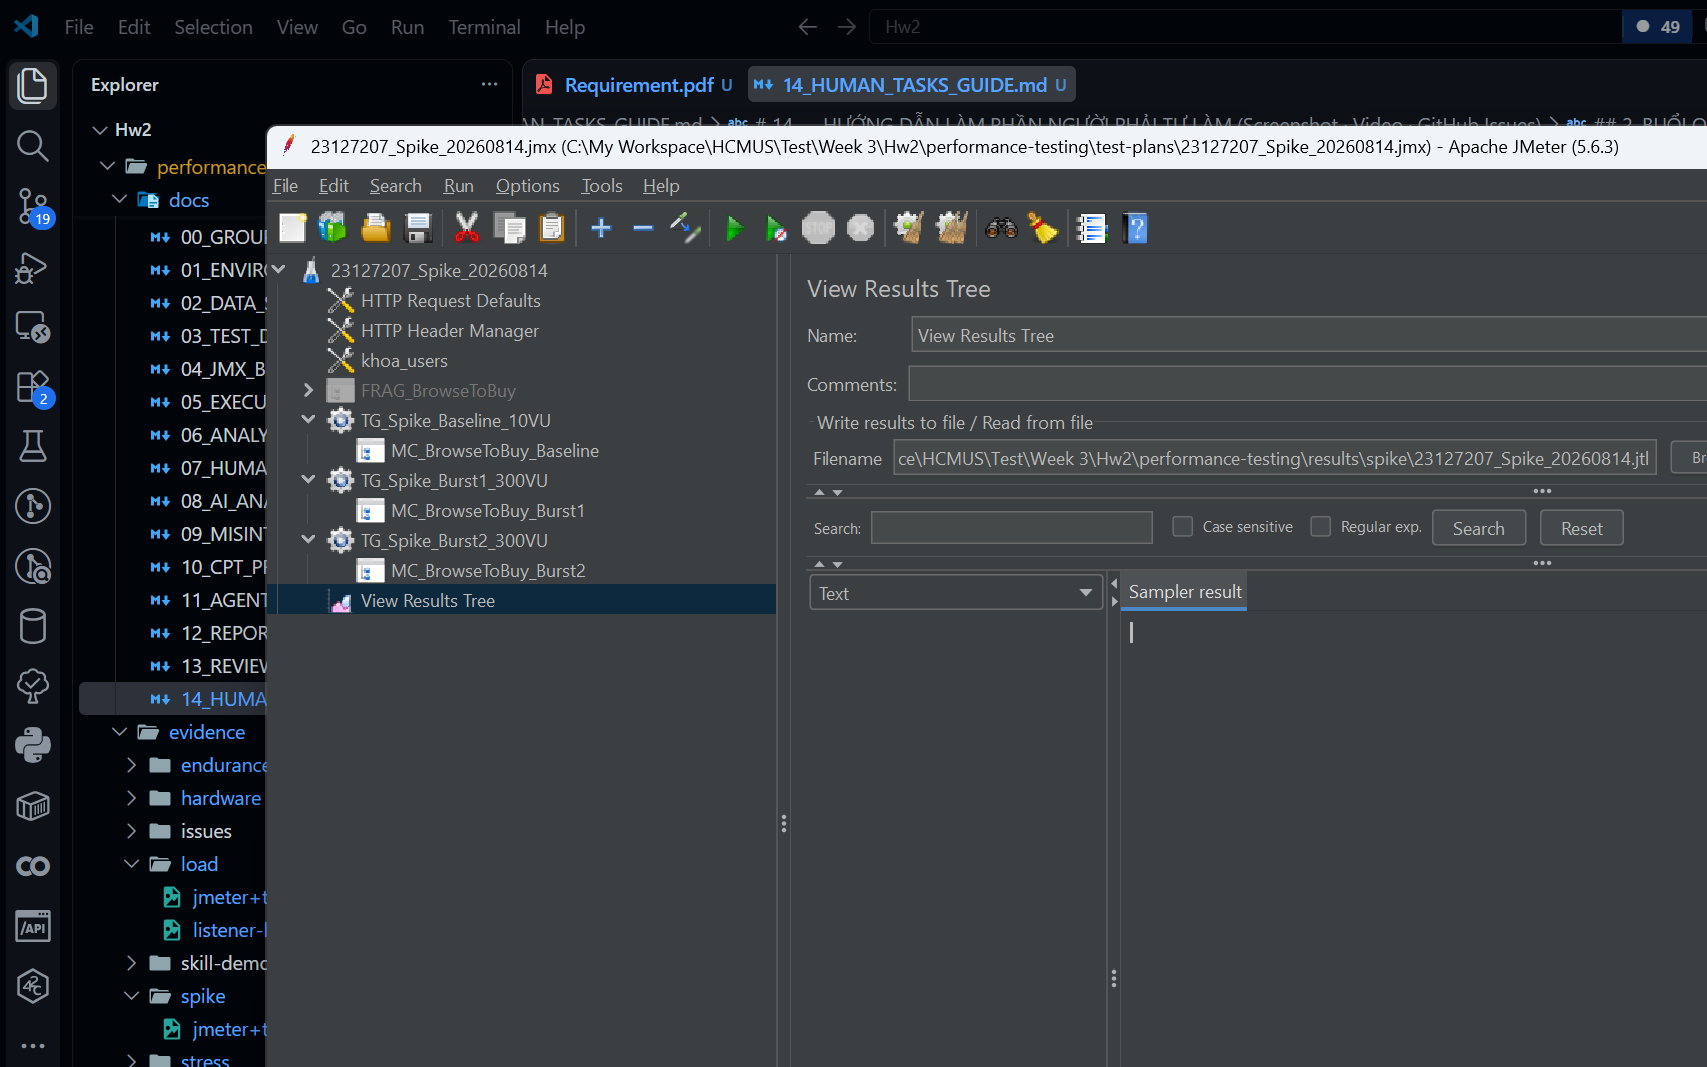
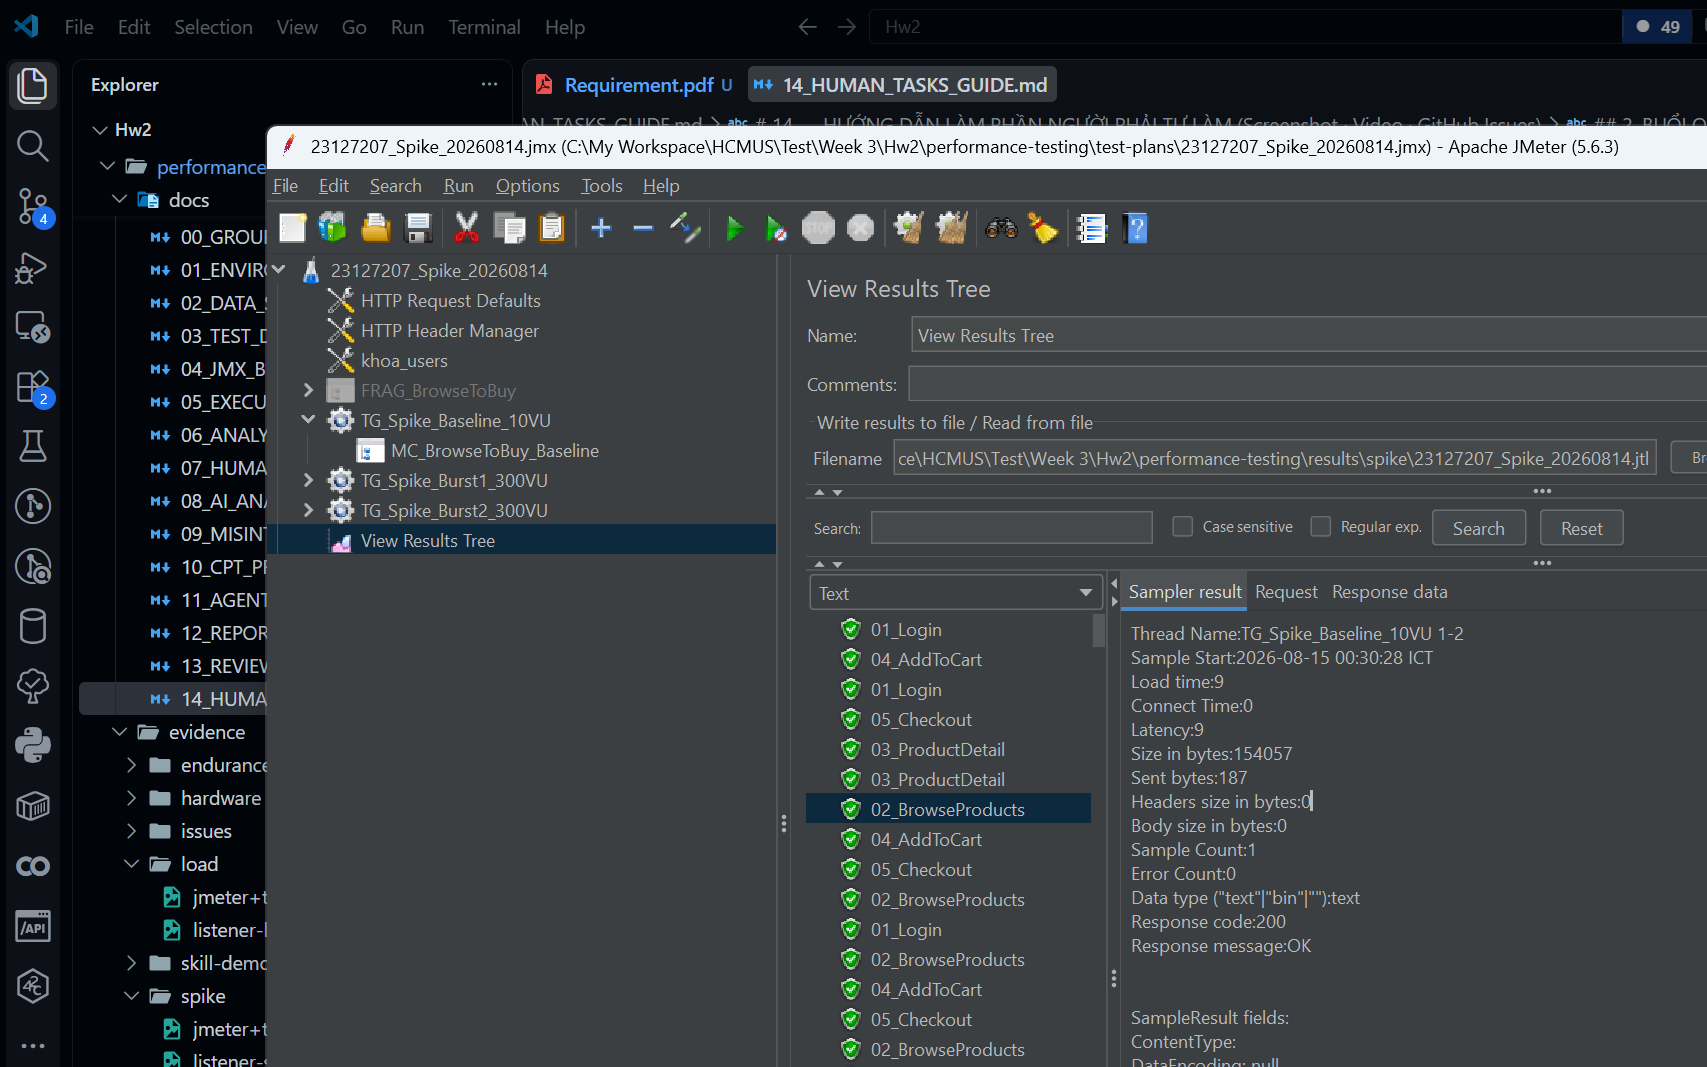
docs(perf): file SUT bugs as GitHub issues and fix spike listener evidence
- Filed 3 verified issues on trngnneee/eshop-sut: unbounded userCarts
  memory leak (#399), FR-02 lockout counter/duration deviation (#400),
  and FR-06 200-with-empty-body plus string price coercion (#401)
- README: link the filed issues
- evidence/spike/listener-spike.png: replaced with a capture that shows
  the loaded result tree (previous one was filtered to errors only and
  therefore empty, since the run had zero errors)

diff --git a/performance-testing/README.md b/performance-testing/README.md
@@ -70,7 +70,17 @@ performance-testing/
 
 ---
 
-## 3. Bản Thảo Báo Lỗi GitHub Issues (Bug Reports)
+## 3. Báo Lỗi GitHub Issues (Bug Reports)
+
+Ba lỗi thật phát hiện trong quá trình kiểm thử hiệu năng đã được đăng lên GitHub Issues của SUT:
+
+| # | Issue | Loại | Link |
+|:--|:---|:---|:---|
+| 1 | `[PERF] In-memory cart (userCarts) grows unbounded — memory leak under sustained load` | Performance | https://github.com/trngnneee/eshop-sut/issues/399 |
+| 2 | `[FR-02] Login attempt counter increments by 2 and lockout lasts 180s instead of 30s` | Functional | https://github.com/trngnneee/eshop-sut/issues/400 |
+| 3 | `[FR-06] GET /api/products/:id returns 200 with empty body for non-existent id` | Functional | https://github.com/trngnneee/eshop-sut/issues/401 |
+
+Ảnh chụp trang danh sách Issues: `evidence/issues/github-issues-list.png`
 
 ### Issue 1: `[BUG] Memory Leak in userCarts Global Object (server.js:14,293)`
 - **Mức độ:** `Critical`
